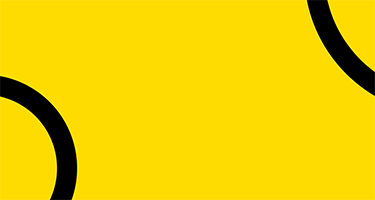
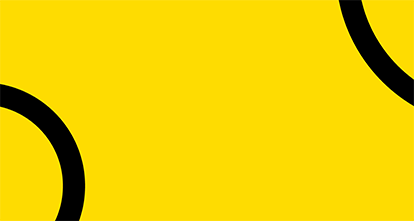
pages/password/reset: design component

diff --git a/src/app/pages/password/reset-password/reset-password.component.html b/src/app/pages/password/reset-password/reset-password.component.html
@@ -1,1 +1,30 @@
-<p>reset-password works!</p>
+<div class="breadcrum_bg"></div>
+<section class="reset-password">
+    <div class="container">
+        <div class="row justify-content-center">
+            <div class="col-sm-6">
+                <form class="form_container">
+                    <fieldset>
+                        <div class="text-center">
+                            <h5> Reset password </h5>
+                            <p class="dark_color"> Enter the new password </p>
+                        </div>
+                        <div class="form-group">
+                            <input type="text" class="form-control" placeholder="password">
+                            <i class="flaticon-padlock"></i>
+                        </div>
+
+                        <div class="form-group">
+                            <input type="text" class="form-control" placeholder="Confirm password">
+                            <i class="flaticon-padlock"></i>
+                        </div>
+
+                        <div class="form-group text-center">
+                            <button type="submit" class="btn myBtn"> Submit </button>
+                        </div>
+                    </fieldset>
+                </form>
+            </div>
+        </div>
+    </div>
+</section>

diff --git a/src/styles.scss b/src/styles.scss
@@ -87,6 +87,9 @@ i {
   max-height: 320px;
 }
 
+.reset-password .form_container {
+  max-height: 160px;
+}
 .modal-header {
   border: none;
 }
@@ -97,6 +100,22 @@ i {
 
 .modal-header .close {
   outline: none;
+}
+
+.modal-header .close i::before {
+  font-size: 18px;
+}
+
+.custom-checkbox .custom-control-label::before {
+  border-radius: 50%;
+}
+
+.custom-checkbox .custom-control-input:checked ~ .custom-control-label::before {
+  background-color: $main_color;
+}
+
+.custom-control-input:focus ~ .custom-control-label::before {
+  box-shadow: 0 0 0 1px #fff, 0 0 0 0.2rem rgb(254 220 1 / 40%);
 }
 /* End of main style */
 

diff --git a/src/assets/css/responsive.scss b/src/assets/css/responsive.scss
@@ -1,4 +1,4 @@
-@media (max-width: 400px) {
+@media (max-width: 414px) {
   .breadcrum_bg {
     background-image: url("../imgs/breadcrumb_bg1.png");
   }
